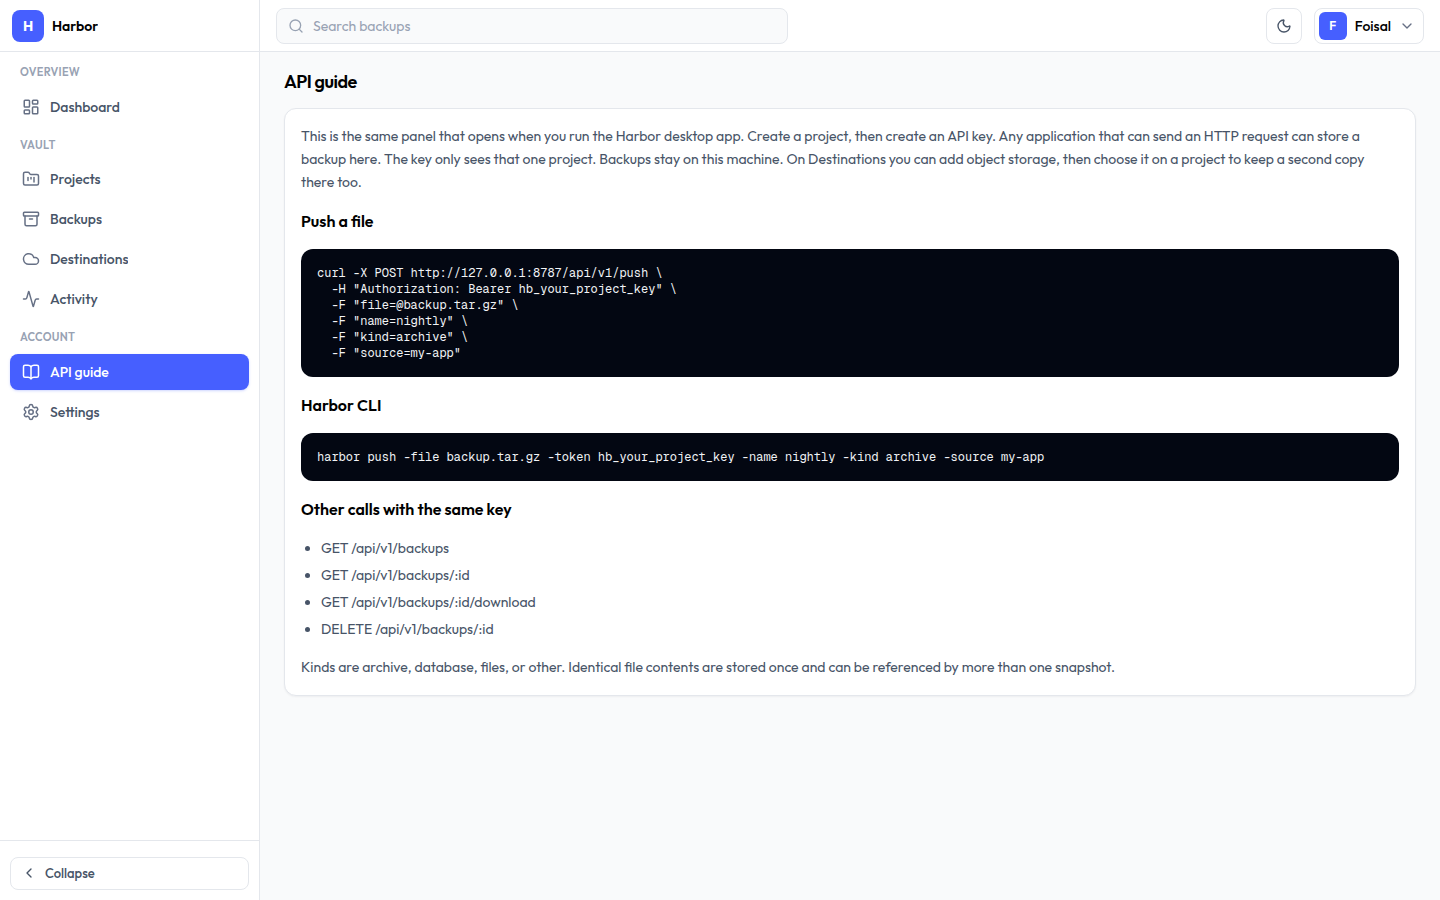
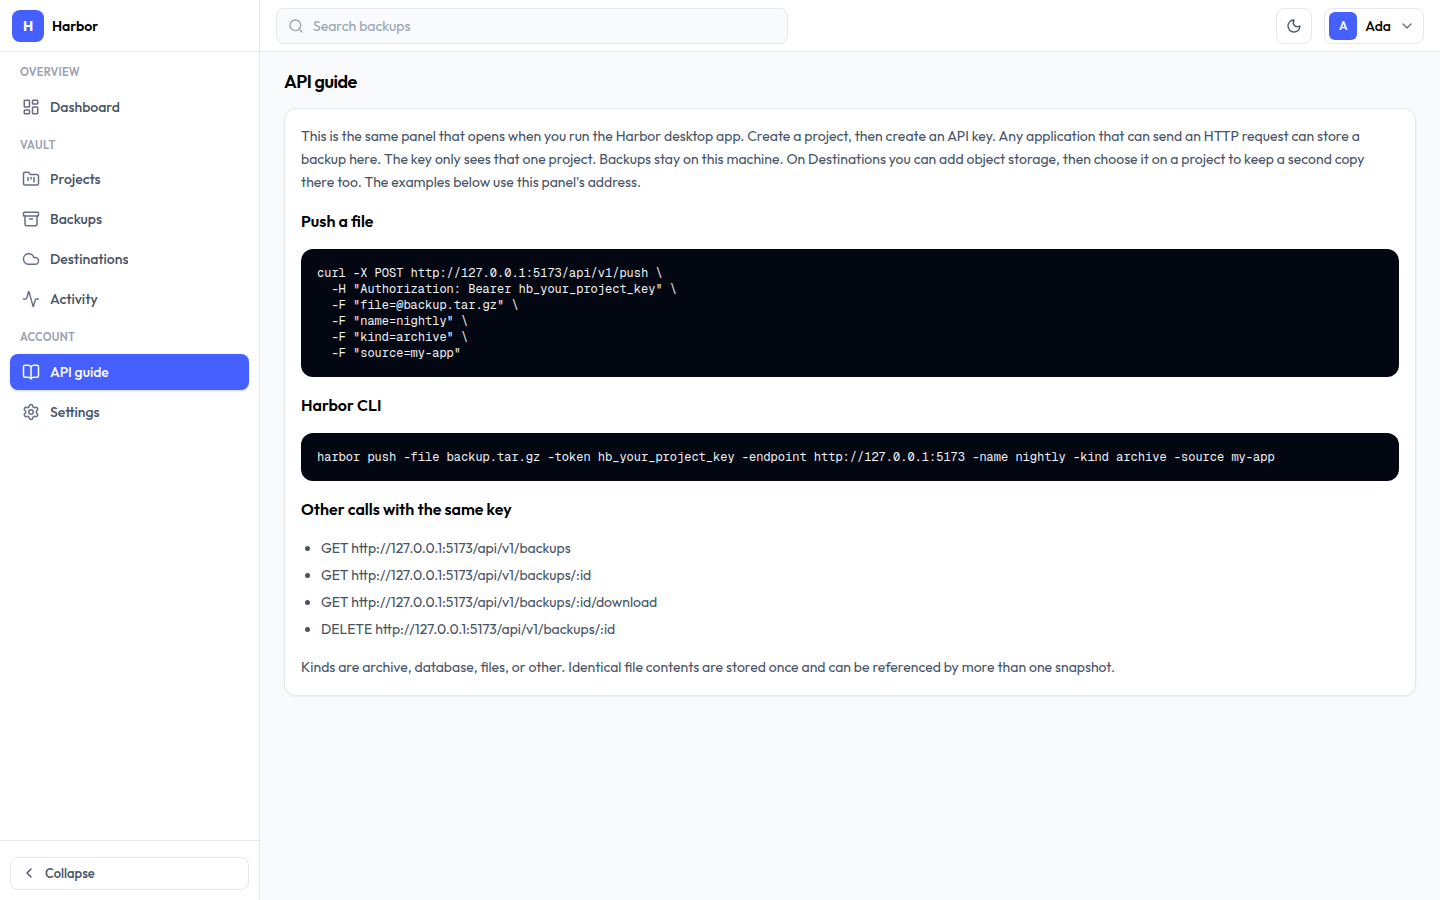
Use the panel's own address in API examples. (#5)
Example curl and CLI commands follow the browser origin, or HARBOR_PUBLIC_URL when that origin is set.

diff --git a/apps/panel/src/pages/admin/GuidePage.tsx b/apps/panel/src/pages/admin/GuidePage.tsx
@@ -1,22 +1,23 @@
 import { AdminPageHeader } from "@/components/admin/layout/admin-page-header";
+import { useExampleOrigin } from "@/lib/example-origin";
 
-const curl = `curl -X POST http://127.0.0.1:8787/api/v1/push \\
+export default function GuidePage() {
+  const origin = useExampleOrigin();
+  const curl = `curl -X POST ${origin}/api/v1/push \\
   -H "Authorization: Bearer hb_your_project_key" \\
   -F "file=@backup.tar.gz" \\
   -F "name=nightly" \\
   -F "kind=archive" \\
   -F "source=my-app"`;
+  const cli = `harbor push -file backup.tar.gz -token hb_your_project_key -endpoint ${origin} -name nightly -kind archive -source my-app`;
 
-const cli = `harbor push -file backup.tar.gz -token hb_your_project_key -name nightly -kind archive -source my-app`;
-
-export default function GuidePage() {
   return (
     <div className="admin-content space-y-3">
       <AdminPageHeader title="API guide" />
       <div className="admin-card">
         <div className="admin-card-body space-y-4 text-sm leading-relaxed text-gray-600 dark:text-gray-300">
           <p>
-            This is the same panel that opens when you run the Harbor desktop app. Create a project, then create an API key. Any application that can send an HTTP request can store a backup here. The key only sees that one project. Backups stay on this machine. On Destinations you can add object storage or a Telegram account, then choose it on a project to keep a second copy there too. Telegram signs in with your api_id and api_hash and uploads each backup as a document.
+            This is the same panel that opens when you run the Harbor desktop app. Create a project, then create an API key. Any application that can send an HTTP request can store a backup here. The key only sees that one project. Backups stay on this machine. On Destinations you can add object storage or a Telegram account, then choose it on a project to keep a second copy there too. Telegram signs in with your api_id and api_hash and uploads each backup as a document. The examples below use this panel's address.
           </p>
           <h2 className="text-base font-semibold text-gray-900 dark:text-white">Push a file</h2>
           <pre className="overflow-x-auto rounded-xl bg-gray-950 p-4 text-xs text-gray-100">{curl}</pre>
@@ -24,10 +25,10 @@ export default function GuidePage() {
           <pre className="overflow-x-auto rounded-xl bg-gray-950 p-4 text-xs text-gray-100">{cli}</pre>
           <h2 className="text-base font-semibold text-gray-900 dark:text-white">Other calls with the same key</h2>
           <ul className="list-disc space-y-1 pl-5">
-            <li>GET /api/v1/backups</li>
-            <li>GET /api/v1/backups/:id</li>
-            <li>GET /api/v1/backups/:id/download</li>
-            <li>DELETE /api/v1/backups/:id</li>
+            <li>GET {origin}/api/v1/backups</li>
+            <li>GET {origin}/api/v1/backups/:id</li>
+            <li>GET {origin}/api/v1/backups/:id/download</li>
+            <li>DELETE {origin}/api/v1/backups/:id</li>
           </ul>
           <p>Kinds are archive, database, files, or other. Identical file contents are stored once and can be referenced by more than one snapshot.</p>
         </div>

diff --git a/apps/panel/src/lib/example-origin.ts b/apps/panel/src/lib/example-origin.ts
@@ -1,0 +1,39 @@
+import { useEffect, useState } from "react";
+
+export function browserOrigin() {
+  if (typeof window === "undefined") return "";
+  return window.location.origin;
+}
+
+export function publicOrigin(value: unknown) {
+  if (typeof value !== "string") return "";
+  const trimmed = value.trim().replace(/\/$/, "");
+  if (!trimmed) return "";
+  try {
+    const url = new URL(trimmed);
+    if (url.protocol !== "http:" && url.protocol !== "https:") return "";
+    if (url.username || url.password || url.search || url.hash) return "";
+    if (url.pathname !== "" && url.pathname !== "/") return "";
+    return url.origin;
+  } catch {
+    return "";
+  }
+}
+
+export function useExampleOrigin() {
+  const [origin, setOrigin] = useState(browserOrigin);
+  useEffect(() => {
+    let ignore = false;
+    fetch("/api/v1/health")
+      .then((res) => (res.ok ? res.json() : null))
+      .then((body: { public_url?: unknown } | null) => {
+        const configured = publicOrigin(body?.public_url);
+        if (!ignore && configured) setOrigin(configured);
+      })
+      .catch(() => undefined);
+    return () => {
+      ignore = true;
+    };
+  }, []);
+  return origin;
+}

diff --git a/apps/server/internal/httpapi/security_test.go b/apps/server/internal/httpapi/security_test.go
@@ -32,6 +32,9 @@ func TestSecurityHeadersAndJSONLimit(t *testing.T) {
 	if !strings.Contains(health.Header().Get("Content-Security-Policy"), "script-src 'self'") {
 		t.Fatal("missing content security policy")
 	}
+	if !strings.Contains(health.Body.String(), `"public_url":""`) {
+		t.Fatalf("health should report an empty public url: %s", health.Body.String())
+	}
 
 	payload := []byte(`{"email":"` + strings.Repeat("a", maxJSONBody) + `","password":"correct-horse"}`)
 	req := httptest.NewRequest(http.MethodPost, "/api/v1/auth/login", bytes.NewReader(payload))
@@ -41,6 +44,23 @@ func TestSecurityHeadersAndJSONLimit(t *testing.T) {
 	handler.ServeHTTP(res, req)
 	if res.Code != http.StatusRequestEntityTooLarge {
 		t.Fatalf("oversized body %d %s", res.Code, res.Body.String())
+	}
+}
+
+func TestHealthPublicURL(t *testing.T) {
+	dir := t.TempDir()
+	st, err := store.Open(dir)
+	if err != nil {
+		t.Fatal(err)
+	}
+	t.Cleanup(func() { st.Close() })
+	handler := New(config.Config{
+		DataDir: dir, MaxUpload: 1 << 20, SessionTTL: time.Hour, PublicURL: "https://harbor.example.com",
+	}, st).Handler()
+	res := httptest.NewRecorder()
+	handler.ServeHTTP(res, httptest.NewRequest(http.MethodGet, "/api/v1/health", nil))
+	if res.Code != http.StatusOK || !strings.Contains(res.Body.String(), `"public_url":"https://harbor.example.com"`) {
+		t.Fatalf("health %d %s", res.Code, res.Body.String())
 	}
 }
 

diff --git a/apps/server/internal/config/config.go b/apps/server/internal/config/config.go
@@ -84,6 +84,7 @@ type Config struct {
 	CookieSecure bool
 	CORSOrigin   string
 	TrustProxy   bool
+	PublicURL    string
 }
 
 func FromEnv() Config {
@@ -96,7 +97,13 @@ func FromEnv() Config {
 		CookieSecure: os.Getenv("HARBOR_COOKIE_SECURE") == "1",
 		CORSOrigin:   strings.TrimSpace(os.Getenv("HARBOR_CORS_ORIGIN")),
 		TrustProxy:   os.Getenv("HARBOR_TRUST_PROXY") == "1",
+		PublicURL:    originEnv(os.Getenv("HARBOR_PUBLIC_URL")),
 	}
+}
+
+// originEnv keeps a configured origin without a trailing slash.
+func originEnv(raw string) string {
+	return strings.TrimRight(strings.TrimSpace(raw), "/")
 }
 
 // Validate checks values that would otherwise be accepted and then misbehave.
@@ -115,6 +122,9 @@ func (c Config) Validate() error {
 	}
 	if c.CORSOrigin != "" && !validCORSOrigin(c.CORSOrigin) {
 		return errConfig("HARBOR_CORS_ORIGIN must be an origin like https://panel.example.com")
+	}
+	if c.PublicURL != "" && !validCORSOrigin(c.PublicURL) {
+		return errConfig("HARBOR_PUBLIC_URL must be an origin like https://harbor.example.com")
 	}
 	return nil
 }

diff --git a/apps/server/internal/config/config_test.go b/apps/server/internal/config/config_test.go
@@ -30,3 +30,18 @@ func TestFromEnvClampsInvalidNumbers(t *testing.T) {
 		t.Fatal("expected a path in the CORS origin to be rejected")
 	}
 }
+
+func TestPublicURL(t *testing.T) {
+	t.Setenv("HARBOR_PUBLIC_URL", "https://harbor.example.com/")
+	cfg := FromEnv()
+	if cfg.PublicURL != "https://harbor.example.com" {
+		t.Fatal(cfg.PublicURL)
+	}
+	if err := cfg.Validate(); err != nil {
+		t.Fatal(err)
+	}
+	cfg.PublicURL = "https://harbor.example.com/api"
+	if err := cfg.Validate(); err == nil {
+		t.Fatal("expected a path in the public URL to be rejected")
+	}
+}

diff --git a/apps/server/cmd/harbor/main.go b/apps/server/cmd/harbor/main.go
@@ -80,7 +80,7 @@ harbor serve is the headless server used by Docker and a VPS.
 Environment:
   HARBOR_ADDR, HARBOR_DATA_DIR, HARBOR_PANEL_DIR, HARBOR_MAX_UPLOAD_BYTES
   HARBOR_SESSION_HOURS, HARBOR_TOKEN (for push), HARBOR_COOKIE_SECURE=1
-  HARBOR_CORS_ORIGIN, HARBOR_TRUST_PROXY=1
+  HARBOR_CORS_ORIGIN, HARBOR_TRUST_PROXY=1, HARBOR_PUBLIC_URL
 `, config.Version)
 }
 

diff --git a/apps/server/internal/httpapi/http.go b/apps/server/internal/httpapi/http.go
@@ -276,6 +276,7 @@ func (a *API) health(w http.ResponseWriter, r *http.Request) {
 		"ok":          true,
 		"version":     config.Version,
 		"needs_setup": n == 0,
+		"public_url":  a.cfg.PublicURL,
 	})
 }
 

diff --git a/README.md b/README.md
@@ -157,6 +157,7 @@ go run ./cmd/harbor serve -addr 127.0.0.1:8787 -data data -panel ../panel/dist
 | `HARBOR_TRUST_PROXY` | empty | Set to `1` only when a reverse proxy is the only client. Harbor then trusts `X-Forwarded-For` for rate limits and request logs. |
 | `HARBOR_SECRET_KEY` | empty | 32-byte key as 64 hex characters or base64. Used only when `secret.key` is not already in the data directory. Back this up outside the volume if you set it. |
 | `HARBOR_ENDPOINT` | `http://127.0.0.1:8787` | Default server for `harbor push`. |
+| `HARBOR_PUBLIC_URL` | empty | Origin used in the panel's example commands, such as `https://harbor.example.com`. A trailing slash is removed. A path, query, or username is rejected at startup. When this is empty, the panel uses the address in the browser. `GET /api/v1/health` returns it as `public_url`. |
 | `HARBOR_TOKEN` | empty | Default project API key for `harbor push`. |
 
 Flags on `harbor serve` override the address, data directory, and panel directory: `-addr`, `-data`, `-panel`.
@@ -191,7 +192,7 @@ With the same key:
 
 Panel users sign in with an HttpOnly session cookie and manage every project from `/`.
 
-`GET /api/v1/health` is public and reports the version and whether an owner still needs to be created.
+`GET /api/v1/health` is public and reports the version, whether an owner still needs to be created, and `public_url` when `HARBOR_PUBLIC_URL` is set.
 
 ## Project structure
 

diff --git a/CHANGELOG.md b/CHANGELOG.md
@@ -16,6 +16,8 @@ The format is based on [Keep a Changelog](https://keepachangelog.com/en/1.1.0/),
 
 ### Changed
 
+- The API guide uses the address the panel is open on. Set `HARBOR_PUBLIC_URL` when that address should be a fixed origin instead. Health reports it as `public_url`.
+
 - Panel pages use the full width beside the sidebar, with the same padding on narrow and wide screens.
 
 ## [0.2.0] - 2026-11-20
